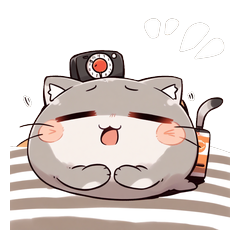
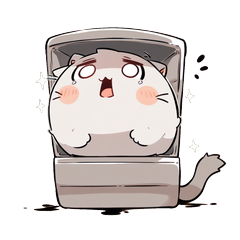
v11 upload: zh/ja 送審完成，修 tag 對照 + main/tab 換 #4
- zh: 44023101, ja: 44023113
- 新增 v11 居家日常 16 個 emotion tag 對照
- upload_line.py 新增 --cancel 指令
- main.png + tab.png 改用 #4 開冰箱

diff --git a/upload_line.py b/upload_line.py
@@ -336,6 +336,23 @@ ZH_EMOTION_TAGS = {
     "生日快樂": ["cat", "happy", "excited", "love", "anticipation"],
     "感恩節": ["cat", "thank", "happy", "love", "eat"],
     "畢業快樂": ["cat", "happy", "excited", "anticipation", "ok"],
+    # v11 home life emotions (圓滾貓的居家日常)
+    "賴床": ["cat", "sleep", "lazy", "sad"],
+    "刷牙": ["cat", "hello", "sleep", "happy"],
+    "喝咖啡": ["cat", "eat", "happy", "lazy"],
+    "開冰箱": ["cat", "eat", "happy", "excited", "anticipation"],
+    "煮飯": ["cat", "eat", "happy", "work"],
+    "洗碗": ["cat", "work", "sad", "lazy"],
+    "洗衣服": ["cat", "work", "lazy", "ok"],
+    "打掃": ["cat", "work", "ok", "happy"],
+    "洗澡": ["cat", "happy", "lazy", "sleep", "relief"],
+    "追劇": ["cat", "happy", "excited", "lazy"],
+    "看手機": ["cat", "lazy", "happy", "still"],
+    "叫外送": ["cat", "eat", "happy", "excited", "anticipation"],
+    "不想出門": ["cat", "lazy", "sad", "no", "sleep"],
+    "倒垃圾": ["cat", "work", "sad", "lazy"],
+    "懶得動": ["cat", "lazy", "sleep", "sad"],
+    "冷氣開起來": ["cat", "happy", "excited", "relief"],
 }
 
 
@@ -419,6 +436,22 @@ def do_submit(sticker_id):
         print(f"Submit {sticker_id}: {result['status']}")
         if result["status"] == 200:
             print("Submitted for review!")
+        else:
+            print(f"Failed: {result.get('body', '')}")
+        ctx.storage_state(path=SESSION_FILE)
+        browser.close()
+
+
+def do_cancel(sticker_id):
+    """Cancel a submitted sticker set."""
+    from playwright.sync_api import sync_playwright
+    with sync_playwright() as p:
+        browser, ctx, page, token = _open_page(p)
+        url = f"{API_BASE}/sticker/{sticker_id}/cancel_request"
+        result = page.evaluate(JS_POST_JSON, [url, "{}", token])
+        print(f"Cancel {sticker_id}: {result['status']}")
+        if result["status"] == 200:
+            print("Cancelled!")
         else:
             print(f"Failed: {result.get('body', '')}")
         ctx.storage_state(path=SESSION_FILE)
@@ -596,6 +629,7 @@ def main():
     parser.add_argument("--sticker-id", type=int, help="Use existing sticker ID")
     parser.add_argument("--tags-only", action="store_true", help="Only update tags (requires --sticker-id)")
     parser.add_argument("--submit", type=int, metavar="ID", help="Submit sticker ID for review")
+    parser.add_argument("--cancel", type=int, metavar="ID", help="Cancel submitted sticker ID")
     args = parser.parse_args()
 
     if args.login:
@@ -604,6 +638,8 @@ def main():
         do_list()
     elif args.submit:
         do_submit(args.submit)
+    elif args.cancel:
+        do_cancel(args.cancel)
     elif args.tags_only:
         if not args.sticker_id or not args.theme or not args.version:
             print("ERROR: --tags-only requires --sticker-id, theme, and version")

diff --git a/output/圓滾貓的日常/v11/ja/listing.md b/output/圓滾貓的日常/v11/ja/listing.md
@@ -1,0 +1,50 @@
+## LINE Creators Market 上架文案
+
+> 類型: 貼圖 (Sticker) / 16 張 / 370x320
+
+### Chinese (Traditional)
+- 標題: 圓滾貓的居家日常 - 日本語版
+- 說明: 圓滾滾灰貓陪你過日子! 16 款居家貼圖, 賴床、追劇、洗澡、煮飯... 每個居家場景都有圓滾貓.
+- 標籤建議: cat, sticker, daily life, home, lazy, cute, kawaii, chubby, grey, everyday
+
+### English
+- Title: Roly-Poly Cat Home Life - Japanese
+- Description: The chubby grey cat is here for every home moment! 16 stickers for sleeping in, cooking, cleaning, binge-watching, ordering delivery, and more.
+- Tags: cat, sticker, daily life, home, lazy, cute, kawaii, chubby, grey, everyday
+
+### Japanese
+- タイトル: まんまるネコのおうち時間 日本語版
+- 説明: まんまるグレー猫と過ごすおうち時間! 16 種類の日常スタンプ. 寝坊, 料理, 掃除, 一気見, デリバリー, だらだら...
+- タグ: 猫, スタンプ, 日常, おうち時間, ぐうたら, かわいい, まんまる, グレー, ゆるい
+
+### 版權
+Copyright (C) 2026 Walter Studio
+
+### 16 sticker 對照表
+
+| # | 中文 | English | 日本語 |
+|---|------|---------|--------|
+| 001 | 賴床 | Sleeping In | 寝坊 |
+| 002 | 刷牙 | Brushing Teeth | 歯みがき |
+| 003 | 喝咖啡 | Coffee Time | コーヒー |
+| 004 | 開冰箱 | Fridge Check | 冷蔵庫 |
+| 005 | 煮飯 | Cooking | お料理 |
+| 006 | 洗碗 | Washing Dishes | 皿洗い |
+| 007 | 洗衣服 | Doing Laundry | 洗濯 |
+| 008 | 打掃 | Cleaning | お掃除 |
+| 009 | 洗澡 | Bath Time | お風呂 |
+| 010 | 追劇 | Binge-Watching | 一気見 |
+| 011 | 看手機 | On My Phone | スマホ |
+| 012 | 叫外送 | Ordering Delivery | デリバリー |
+| 013 | 不想出門 | Staying In | 引きこもり |
+| 014 | 倒垃圾 | Taking Out Trash | ゴミ出し |
+| 015 | 懶得動 | Can't Be Bothered | だらだら |
+| 016 | 冷氣開起來 | Blast the AC | クーラー |
+
+### 4 張主要圖片建議
+
+居家代表型 (推薦): **001, 009, 010, 013**
+- 001 賴床 (鬧鐘+棉被+不想起床, 最能引起共鳴)
+- 009 洗澡 (木桶+泡泡+閉眼享受, 可愛度最高)
+- 010 追劇 (抱爆米花+目不轉睛, 現代人最有感)
+- 013 不想出門 (抱胸+閉眼+緊靠門, 宅感爆棚)

diff --git a/output/圓滾貓的日常/v11/zh/listing.md b/output/圓滾貓的日常/v11/zh/listing.md
@@ -1,0 +1,50 @@
+## LINE Creators Market 上架文案
+
+> 類型: 貼圖 (Sticker) / 16 張 / 370x320
+
+### Chinese (Traditional)
+- 標題: 圓滾貓的居家日常
+- 說明: 圓滾滾灰貓陪你過日子! 16 款居家貼圖, 賴床、追劇、洗澡、煮飯... 每個居家場景都有圓滾貓.
+- 標籤建議: cat, sticker, daily life, home, lazy, cute, kawaii, chubby, grey, everyday
+
+### English
+- Title: Roly-Poly Cat Home Life
+- Description: The chubby grey cat is here for every home moment! 16 stickers for sleeping in, cooking, cleaning, binge-watching, ordering delivery, and more.
+- Tags: cat, sticker, daily life, home, lazy, cute, kawaii, chubby, grey, everyday
+
+### Japanese
+- タイトル: まんまるネコのおうち時間
+- 説明: まんまるグレー猫と過ごすおうち時間! 16 種類の日常スタンプ. 寝坊, 料理, 掃除, 一気見, デリバリー, だらだら...
+- タグ: 猫, スタンプ, 日常, おうち時間, ぐうたら, かわいい, まんまる, グレー, ゆるい
+
+### 版權
+Copyright (C) 2026 Walter Studio
+
+### 16 sticker 對照表
+
+| # | 中文 | English | 日本語 |
+|---|------|---------|--------|
+| 001 | 賴床 | Sleeping In | 寝坊 |
+| 002 | 刷牙 | Brushing Teeth | 歯みがき |
+| 003 | 喝咖啡 | Coffee Time | コーヒー |
+| 004 | 開冰箱 | Fridge Check | 冷蔵庫 |
+| 005 | 煮飯 | Cooking | お料理 |
+| 006 | 洗碗 | Washing Dishes | 皿洗い |
+| 007 | 洗衣服 | Doing Laundry | 洗濯 |
+| 008 | 打掃 | Cleaning | お掃除 |
+| 009 | 洗澡 | Bath Time | お風呂 |
+| 010 | 追劇 | Binge-Watching | 一気見 |
+| 011 | 看手機 | On My Phone | スマホ |
+| 012 | 叫外送 | Ordering Delivery | デリバリー |
+| 013 | 不想出門 | Staying In | 引きこもり |
+| 014 | 倒垃圾 | Taking Out Trash | ゴミ出し |
+| 015 | 懶得動 | Can't Be Bothered | だらだら |
+| 016 | 冷氣開起來 | Blast the AC | クーラー |
+
+### 4 張主要圖片建議
+
+居家代表型 (推薦): **001, 009, 010, 013**
+- 001 賴床 (鬧鐘+棉被+不想起床, 最能引起共鳴)
+- 009 洗澡 (木桶+泡泡+閉眼享受, 可愛度最高)
+- 010 追劇 (抱爆米花+目不轉睛, 現代人最有感)
+- 013 不想出門 (抱胸+閉眼+緊靠門, 宅感爆棚)
